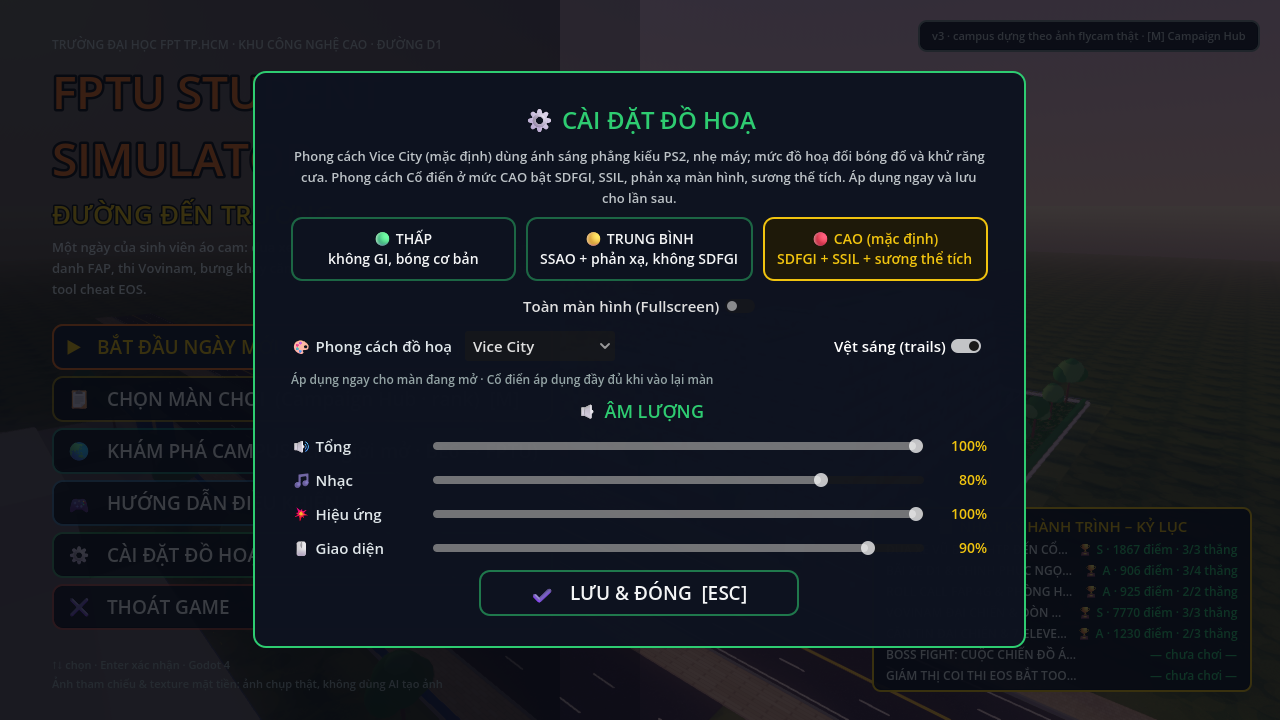
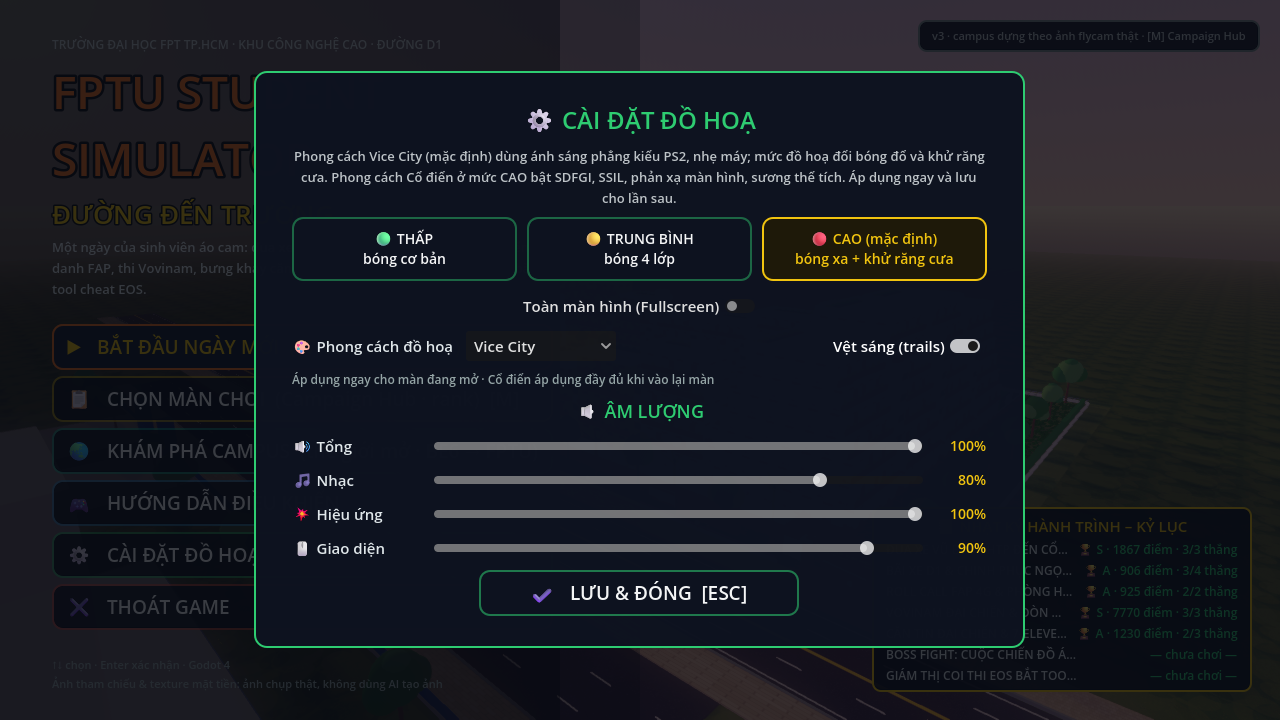
fix(vice): day glow threshold 2.4, keep late material swaps stylised, plan table + previews in sync
- Day look glow threshold 1.9 -> 2.4. At 1.9 and 2.1 the sunlit yellow centre dash in FreeRoam
  still had a soft halo; 2.4 removes it and the wide shots are unchanged (night/dawn/sunset untouched).
- Stage 2: the blinking parking-spot material is created before upgrade_scene_visuals, so it is
  stylised with the rest of the scene (_process only recolours it).
- FreeRoam: the Lab 402 hotspot recolours its existing glow materials on a day/night switch instead
  of assigning new, unstylised ones.
- Plan doc time-of-day table now matches ViceStyle.LOOKS / PRESET_TWEAKS (day 2.4, noon 2.4 + no
  bloom, canteen tweak, indoor 0.75 / 0.85 / 0.2 / 1.9 / cap 1.6 / LUT highlight 0.04, night 0.28).
- Re-rendered previews: menu, Stage 1, Stage 2, all FreeRoam day shots, menu + pause settings
  (two-line style-aware quality captions).

diff --git a/docs/superpowers/plans/2026-10-22-vice-city-art-direction.md b/docs/superpowers/plans/2026-10-22-vice-city-art-direction.md
@@ -43,13 +43,14 @@ Existing stage presets keep their names; `ViceStyle` maps them to vice looks:
 | `GameFX` preset (used by) | Vice look | Notes |
 |---|---|---|
 | `dawn` (Main menu, Stage 1 07:05) | `dawn` = new pink/peach sunrise derived from `sunset` with the sun in the east (azimuth +85), fog begin 120 / end 1800 | Stage 1 rides into the sunrise |
-| `morning` (Stage 2) | `day` | |
-| `noon`, `midday_open` (Stage 4, Stage 5) | `day` with exposure +0.04, glow threshold 1.85 | midday glare without painted lines blooming |
-| `morning_indoor`, `exam` (Stage 3, Extra) | `indoor` = warm fluorescent: ambient `#ffe9d6` 1.35, no fog, glow 0.4 / threshold 1.3, LUT shadows `#3a3a6e`, highlights `#fff0dc` | interiors stay readable |
-| `night` (Stage 6) | `night` | neon + window lights on |
+| `morning` (Stage 2) | `day` | glow threshold 2.4 (1.75, 1.9 and 2.1 left a halo round sunlit painted lines) |
+| `noon` (Stage 4) | `day` with exposure +0.04, glow threshold 2.4, bloom 0 | midday glare without the sunlit mat ring blooming |
+| `midday_open` (Stage 5) | `day` with ambient 0.55, exposure 0.95, contrast 1.45, glow 0.3, bloom 0, threshold 2.1, sun 70° / 175° | the canteen is mostly under the roof; the plain day look washed it out (mean luminance ~200) |
+| `morning_indoor`, `exam` (Stage 3, Extra) | `indoor` = warm fluorescent: ambient `#ffe9d6` 0.75, exposure 0.85, no fog, glow 0.2 / threshold 1.9 / cap 1.6, LUT shadows `#3a3a6e`, highlights `#fff0dc` with highlight weight 0.04 (default 0.22) | interiors stay readable; clipped pixels < 4 % and the FAP projector code stays legible |
+| `night` (Stage 6) | `night` = ambient 0.28, glow threshold 1.5 / cap 2.5 | neon + window lights on; lane markings are soft emitters at night |
 | FreeRoam `T` cycle | `dawn` -> `day` -> `sunset` -> `night` | open world |
 
-Values for `sunset`, `day`, `night` are the final ones in `tests/preview_vice_lookdev.gd` `VICE` (day: sun energy 1.45, exposure 1.18, glow threshold 1.75; night: windows 0.12, glow 0.9 / threshold 1.1; sunset: fog 150 / 2200). Night ambient goes down to 0.2 (look-dev 0.3 still read too light).
+Values for `sunset`, `day`, `night` are the final ones in `tests/preview_vice_lookdev.gd` `VICE` (day: sun energy 1.45, exposure 1.18, glow threshold 1.75; night: windows 0.12, glow 0.9 / threshold 1.1; sunset: fog 150 / 2200). VC-1 tuning after the stage previews changed some of them: day threshold 2.4; night ambient 0.28 (0.2 made the FreeRoam road and rider unreadable before VC-3 lamps exist), threshold 1.5 and cap 2.5 (Stage 6 ceiling lights bloomed at 1.1 / 12). `ViceStyle.LOOKS` and `PRESET_TWEAKS` are the source of truth.
 
 ---
 
